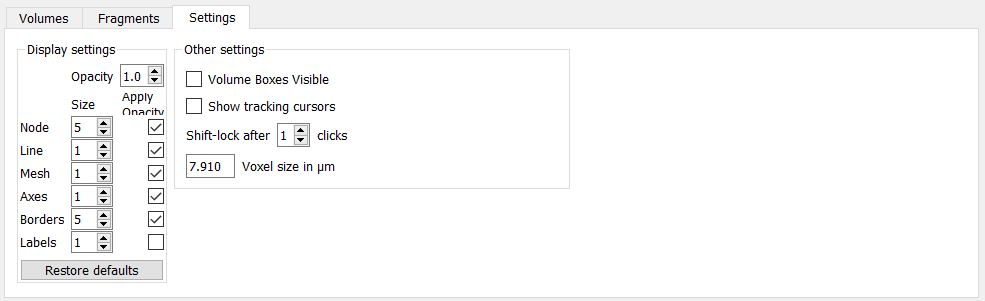
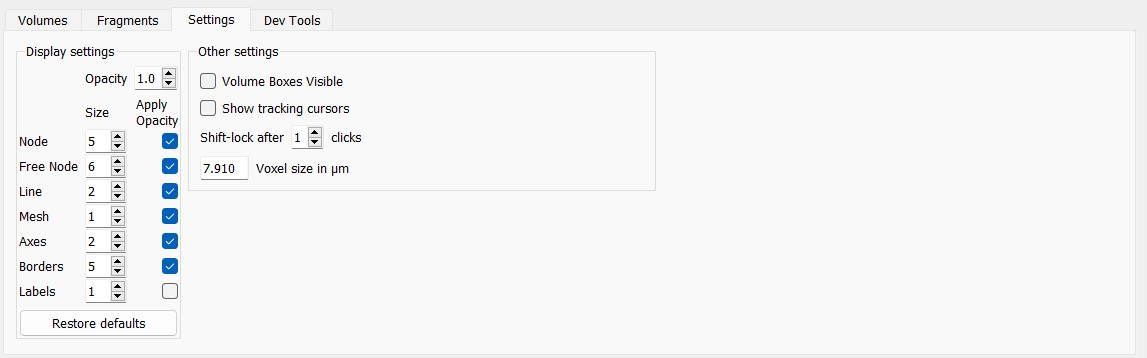
Update README: annotation

Changed region(s): [[0.0, 0.0299, 0.9746, 0.9568], [0.0, 0.9867, 1.0, 1.0]]

diff --git a/README.md b/README.md
@@ -750,13 +750,22 @@ overlaid on the Data Slices.  This is useful if you want to compare different
 fragments.  Recall that a given `Visible` fragment's mesh will not be
 overlaid on the Fragment View unless that fragment is also `Active`.
 
-In general use, only one fragment at a time can be actve; if you set a fragment to be active
+In general use, only one fragment at a time can be active; if you set a fragment to be active
 by clicking its `Active` check box, the previously active fragment will be deactivated.
 An exception will be discussed as an advanced topic below.
 
 As for the remaining columns in the Fragments tab:
 
-The third column displays the name of the fragment, and the fourth displays
+The third column, `Mesh Visible`, controls the visibility of the mesh that is shown
+in the Fragment View.  Note that this setting has an effect only on fragments
+that are both `Visible` and `Active`.  The mesh visibility is turned on by
+default; the main reason to turn it off is when the fragment is used
+to provide annotation (see "Advanced topic: Annotation").
+In that case, you want to make sure that this fragment
+and the fragment that is being annotated are both `Active` (see
+"Advanced topic: Multiple active fragments").
+
+The fourth column displays the name of the fragment, and the fifth displays
 the color.  These both can be edited.  When you create a new fragment,
 khartes tries (not very cleverly) to guess what to name it, and chooses
 a color at random, so the ability to edit these may be helpful.
@@ -767,7 +776,7 @@ list, give them similar names.  A wide range of characters are acceptable
 in the name, so you can give your fragments names like "sheet 1 / fiber 3", "sheet 1 / fiber 4",
 etc.
 
-The fifth column in the fragments list indicates whether the fragment considers the X axis,
+The sixth column in the fragments list indicates whether the fragment considers the X axis,
 or the Y axis, to be the vertical direction.  The direction of the axis is important because
 khartes only works with single-valued surfaces; the fragment's vertical direction
 is the direction of the "single value".
@@ -776,7 +785,7 @@ is based on the vertical direction
 of the volume that is active at that time.  The fragment's axis direction
 cannot be changed once the fragment is created.
 
-The sixth column simply shows how many nodes (points) the fragment contains.  The seventh column
+The seventh column simply shows how many nodes (points) the fragment contains.  The eighth column
 gives the fragment's area in square centimeters.  This is the true area, as measured in 3D space;
 it is not based simply on the projected area of the fragment onto the Fragment View.
 
@@ -861,6 +870,47 @@ As before, the beige row denotes the fragment that is accepting
 new nodes.  When there are multiple fragments that are both active
 and visible, the
 "accepting" row is the one closest to the bottom of the list.
+
+### Advanced topic: Annotation
+
+<img src="images/annotation.jpg" width="400"/>
+
+*Annotation: crackle zones are marked by dots*
+
+Khartes does not have a well-developed annotation system.
+However, as shown in the picture above,
+it does allow you to add dots to the Fragment View to highlight features of interest.
+
+These dots are actually the vertices of a fragment whose only purpose
+is to provide annotation.  Here are the steps to add annotation to
+your fragment view:
+
+1. Go to the Fragments tab in the Control Area and create a new fragment.
+
+2. Set the color and name of the new fragment.  In this example I will
+name the fragment "crackle".  The annotation dots will be drawn in the
+color that you give the fragment.
+
+3. Unset `Mesh Visible` for the new fragment.
+
+4. Make sure that your new fragment ("crackle") and the fragment that you
+want to annotate (the fragment that shows areas of crackling) are both `Active`
+(see "Advanced topic: Multiple active fragments").
+
+5. Make sure that in the Fragments tab, your new fragment ("crackle") is
+highlighted in beige
+(slate gray if you are in dark mode).  One way to ensure this is to set
+the main fragment (the one you are annotating) to be `Active` but not `Visible`.
+
+6. Now you should be able to add dots (annotation) using the same Shift+mouse
+combination that you use to add nodes.  You can also move the dots, and delete
+them, the way you would any other nodes.
+
+7. If the dots are not the size you prefer, go to the Settings tab and change
+the `Free Node` size.
+
+8. If you want annotation in more than one color, just create more annotation
+fragments, one per color.  Make sure they are all `Active`.
 
 ## Exporting fragments
 
@@ -1079,6 +1129,9 @@ the entities (nodes, lines, axes, etc) that are overlain on top of the data wind
 
 Here is what the different entities listed represent:
 * You already know what nodes are
+* Free nodes are annotation nodes (nodes belonging to a fragment
+that has `Mesh Visible` turned
+off; see "Advanced topic: Annotation")
 * Lines are the fragment cross-sections that are drawn on the Data Slices
 * Meshes are the triangles drawn on the Fragment View
 * The Axes are the two crosshairs that meet in the center of each data window
